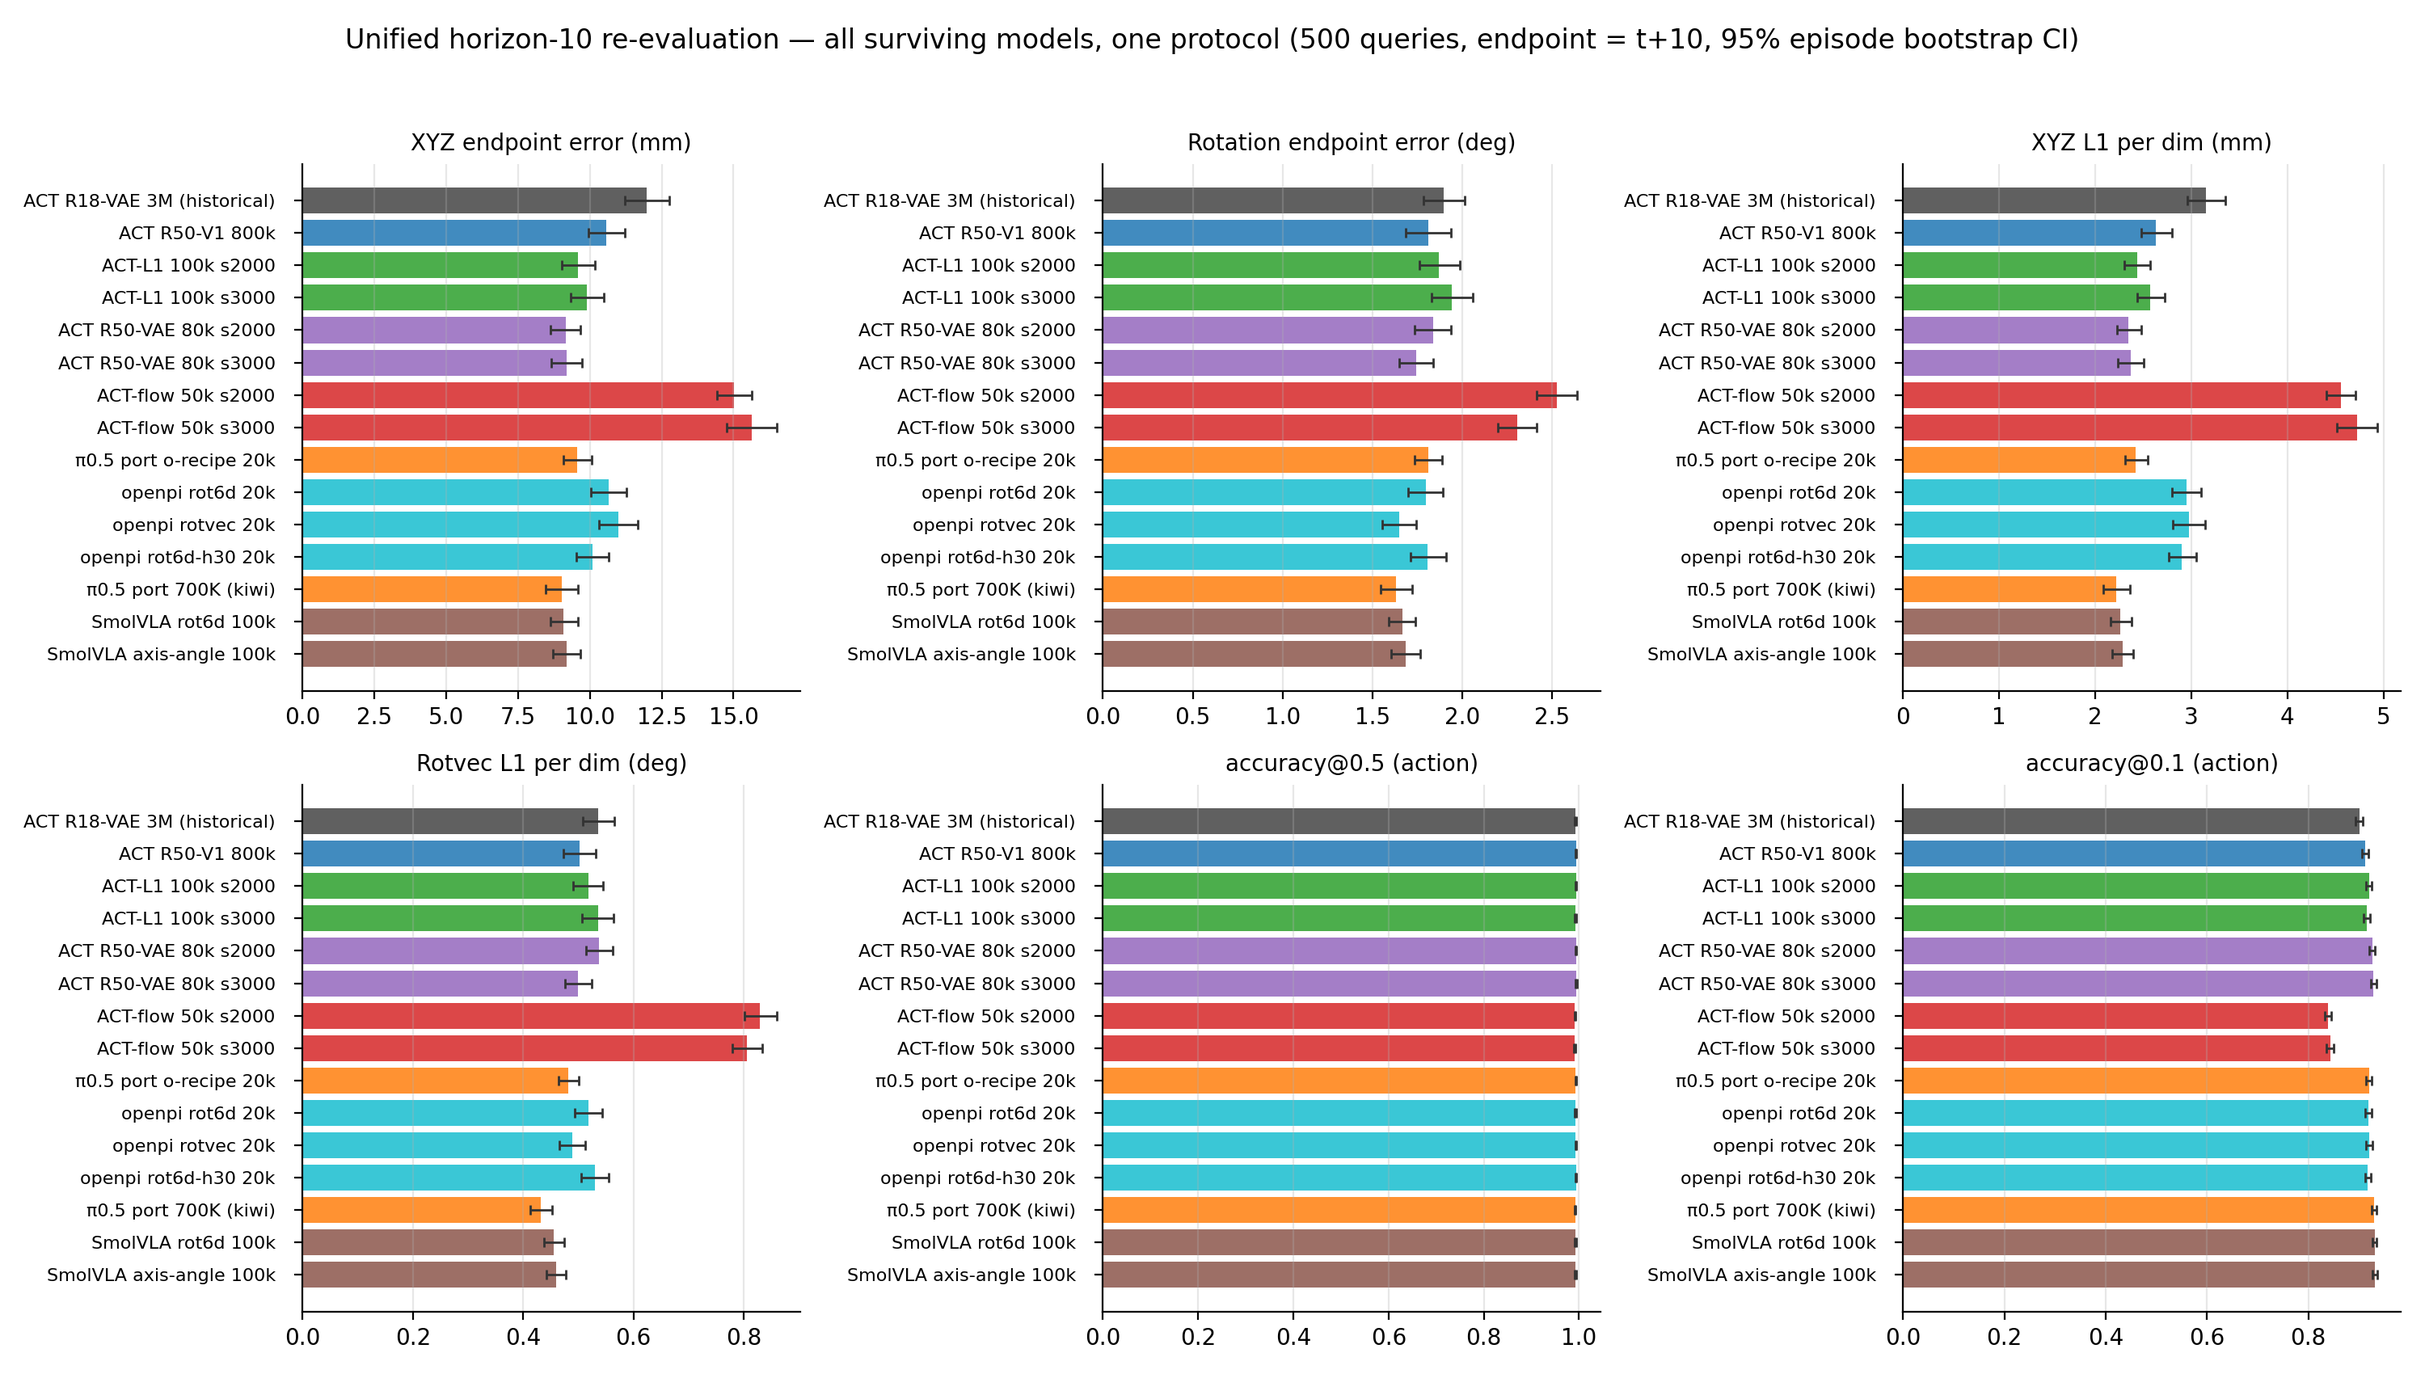
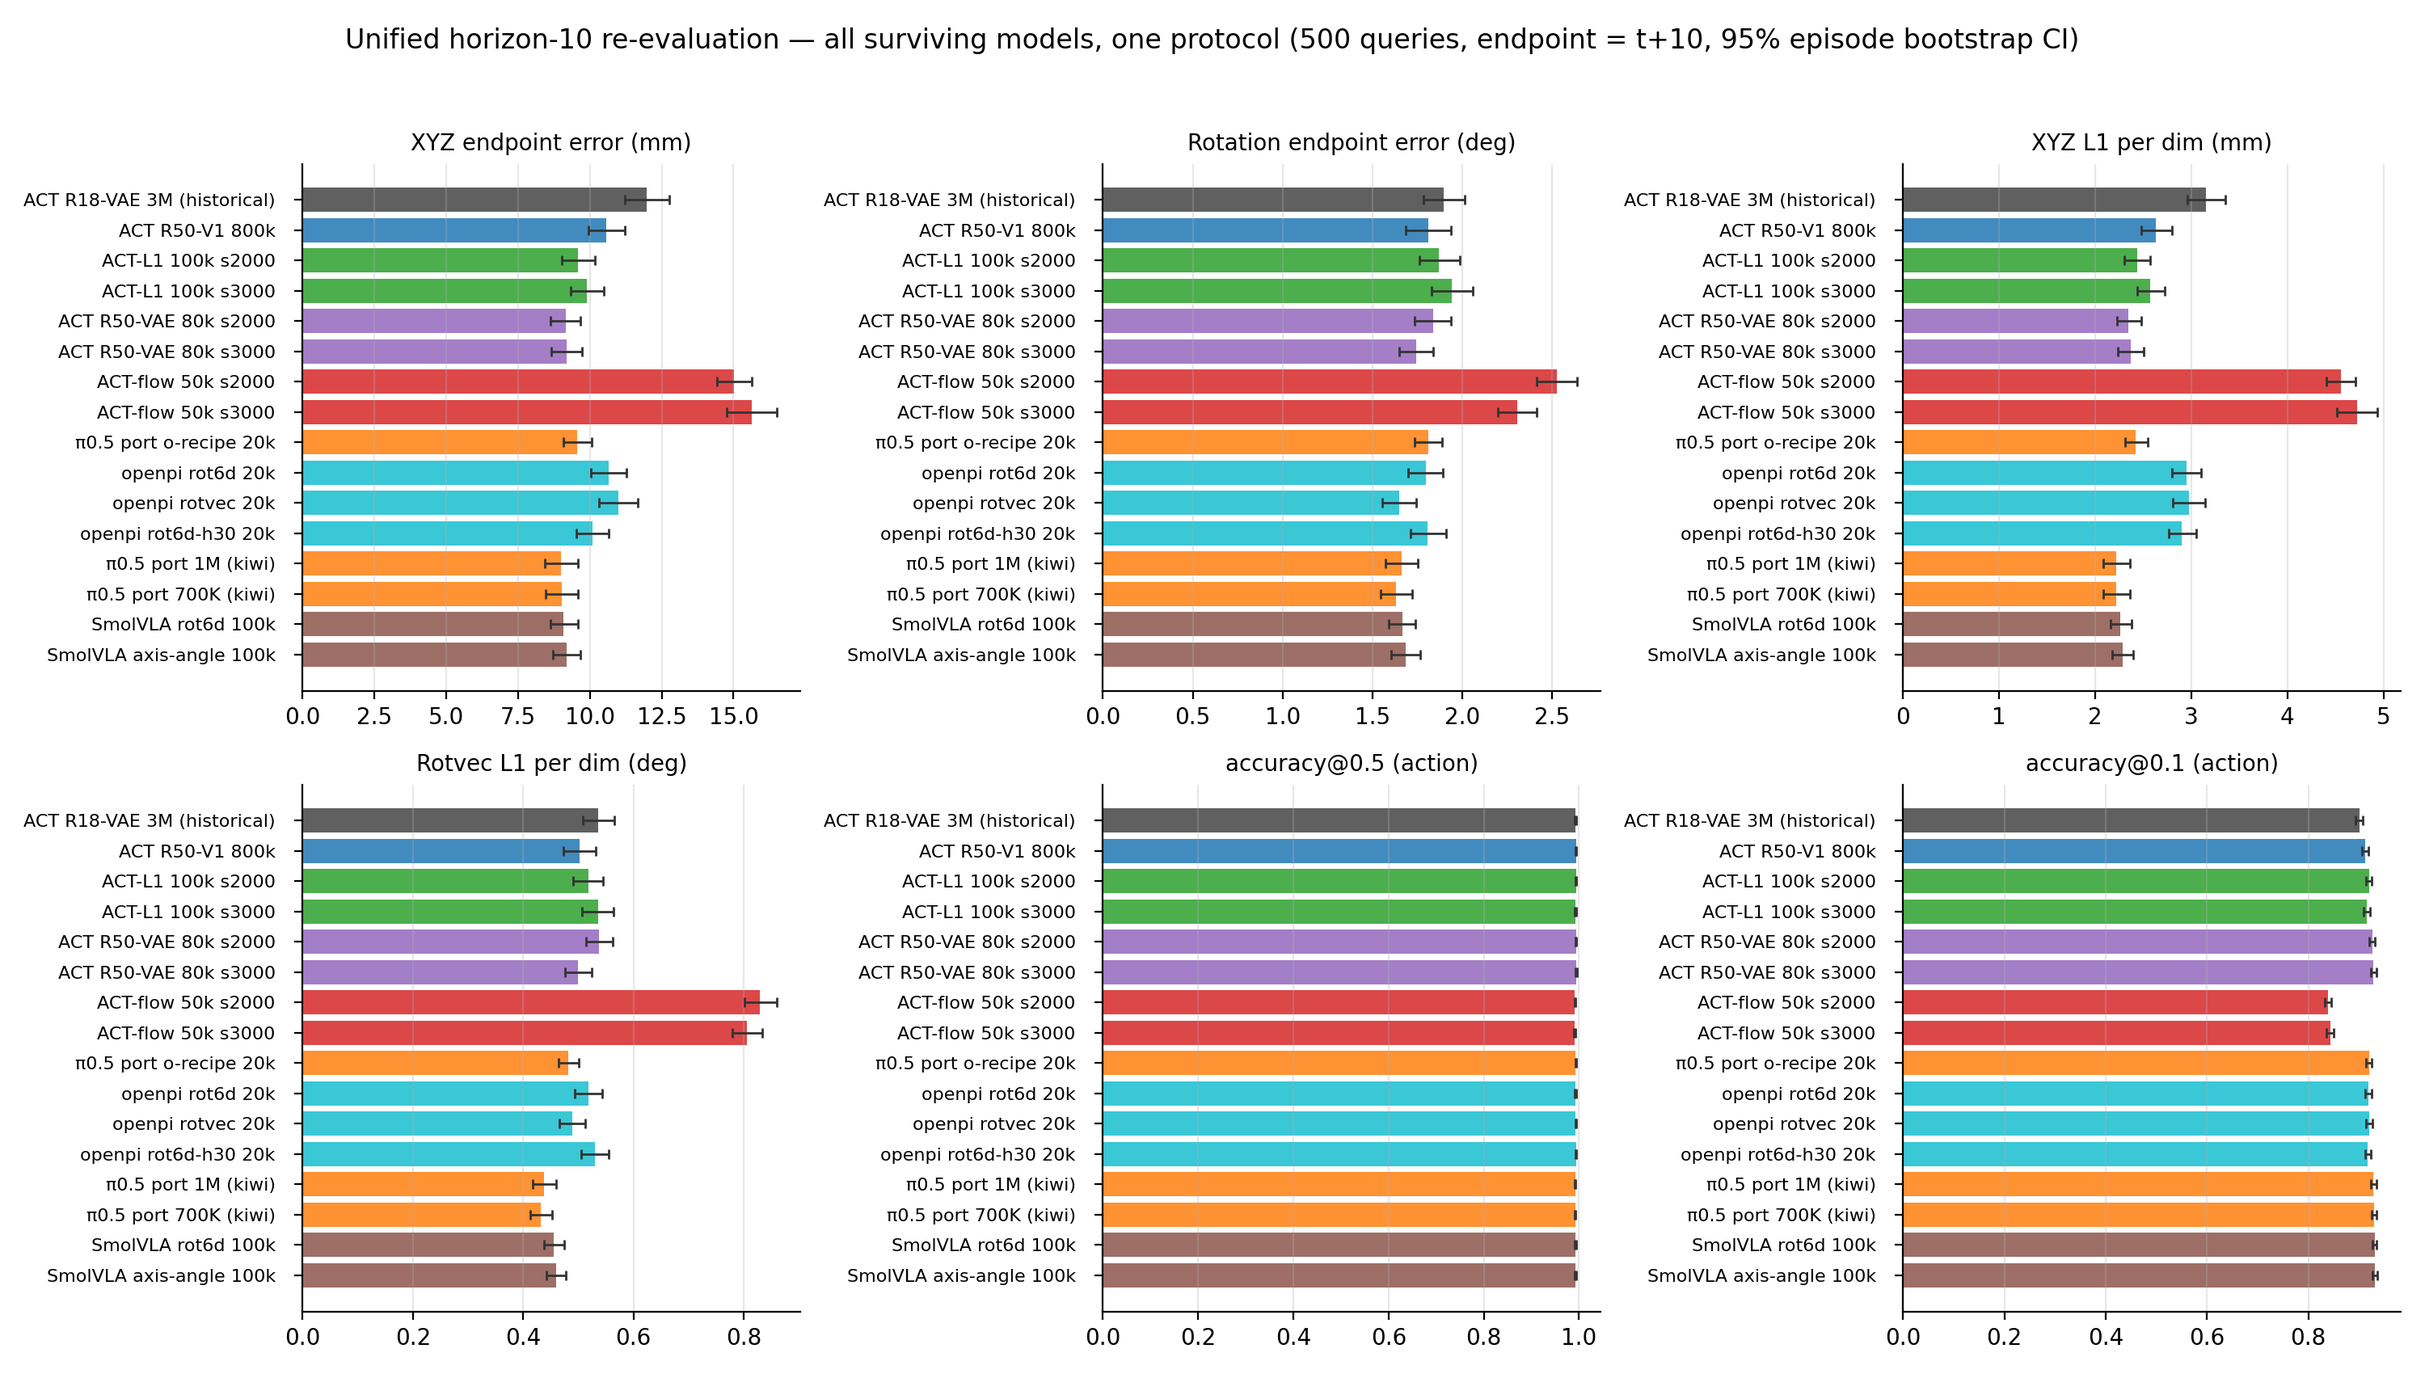
K2+K3 landed: §9.2.11 67/87, §9.2.9 complete (71/71), §9.2.2 port 1M + L1/MSE, §9.2.3 canonical confirmation
- §9.2.11: +5 h30 rows (port 650K/700K/1M flat at 21.75-21.97 mm; SmolVLA
  notation pair 27.3/27.6 mm — family worst at full chunk, tie persists);
  read-outs 5-6, figures regenerated (19-pt port curve).
- §9.2.9: fetched the missed kiwi 1M h10 row — 9.00 [8.43, 9.58] mm, flat
  vs 700K; placeholder replaced, status 71/71 complete.
- §9.2.2: 1M row + per-dim L1/MSE at 650K/700K/1M; canonical re-scores
  match legacy point-for-point.
- §9.2.3: canonical h10 + h30 notation ties confirm the legacy result.
- §11: rerun notes now gated on SmolVLA chains only.

diff --git a/examples/umi_relative_ee/act_flow_ablation/plot_unified_h10.py b/examples/umi_relative_ee/act_flow_ablation/plot_unified_h10.py
@@ -187,7 +187,7 @@ def fig_budget(rows: dict[str, dict]) -> None:
         for series, color, label, marker in (
             (hist, COLORS["hist"], "ACT R18-VAE (historical, 30 ckpts)", "o"),
             (r50, COLORS["r50v1"], "ACT R50-V1 (fresh 1M run)", "s"),
-            (port, COLORS["port"], "π0.5 port (kiwi curve, 18 ckpts)", "^"),
+            (port, COLORS["port"], "π0.5 port (curve, 19 ckpts)", "^"),
         ):
             if not series:
                 continue
@@ -330,7 +330,7 @@ def fig_jitter_budget(rows: dict[str, dict]) -> None:
         for series, color, label, marker in (
             (hist, COLORS["hist"], "ACT R18-VAE (historical, 30 ckpts)", "o"),
             (r50, COLORS["r50v1"], "ACT R50-V1 (fresh 1M run)", "s"),
-            (port, COLORS["port"], "π0.5 port (kiwi curve, 18 ckpts)", "^"),
+            (port, COLORS["port"], "π0.5 port (curve, 19 ckpts)", "^"),
         ):
             if not series:
                 continue

diff --git a/examples/umi_relative_ee/act_flow_ablation/RESEARCH_REPORT.md b/examples/umi_relative_ee/act_flow_ablation/RESEARCH_REPORT.md
@@ -1009,18 +1009,28 @@ the same 1459_occlusion train set. At the evaluated 700K point the model had see
 checkpoint to complete the full 1M schedule (300k steps at ~1.3 steps/s on the
 RTX 5080, ETA ≈ 64 h; step/optimizer/scheduler state and the same W&B run
 `ud42a4qb` restored via `resume_pi05_split_lora_kiwi_1459_1m.sh`); the 1M
-checkpoint will be evaluated under the identical protocol when it lands.
+checkpoint landed 2026-08-19 and is evaluated below (canonical re-score).
 
 | Checkpoint | XYZ end (mm) | Rot end (deg) | Rot jerk (deg) | Gripper end |
 | --- | ---: | ---: | ---: | ---: |
+| π0.5 LoRA 1M | 21.75 [20.14, 23.42] | 4.29 [3.96, 4.62] | 0.08 | — |
 | π0.5 LoRA 700K | **21.77 ± 0.17** | **4.25 ± 0.01** | **0.07** | 0.14 |
 | π0.5 LoRA 650K | 21.97 ± 0.21 | 4.32 ± 0.01 | 0.08 | 0.14 |
+
+The 1M row is the canonical full-chunk re-score (§9.2.11 protocol, 3
+inference seeds, 95% episode bootstrap); its 650K/700K siblings re-scored
+at 21.97 [20.33, 23.67] / 21.77 [20.17, 23.45] — matching the legacy ±
+rows above point-for-point, so the two protocols agree. Per-dim L1/MSE at
+the three budgets: XYZ L1 6.56/6.51/6.49 mm, XYZ MSE 119.6/117.3/116.4
+µm², rotvec L1 1.194/1.188/1.195°, rotvec MSE 3.52/3.44/3.50 deg²
+(650K/700K/1M).
 
 Both π0.5 checkpoints beat every ACT and diffusion-policy variant in the matrix
 on endpoint pose accuracy (next best: ACT R50-V1 100k at 22.33 mm / 4.58°), and
 both are smoother than the ground-truth trajectory (rotational jerk 0.07–0.08°
-versus GT 0.158°). The 650K→700K gain is small (0.2 mm, 0.07°), indicating the
-flow-VLM has largely plateaued by 650K. This sharpens the Q2 conclusion: flow
+versus GT 0.158°). The 650K→700K gain is small (0.2 mm, 0.07°) and 700K→1M adds
+nothing (21.77 → 21.75 mm), indicating the flow-VLM has largely plateaued
+by 650K. This sharpens the Q2 conclusion: flow
 matching is emphatically not the bottleneck — a well-trained flow-VLM is the
 strongest and smoothest controller here, so the deficit of the matched ACT-flow
 run (Section 9.2, ~26 mm) is attributable to the ACT-transformer
@@ -1066,7 +1076,13 @@ near-identity (small rotations), where axis-angle's singularity at 180° never
 manifests and the extra rot6d→rotvec decode step injects a small amount of noise.
 Practical takeaway: **rotation parameterization is not a meaningful accuracy or
 deployment lever for this task**; axis-angle is preferred for its smaller action
-dimension and marginally smoother output. (An independent replication on the
+dimension and marginally smoother output. The canonical re-evaluations confirm
+this at both horizons: under the unified protocol (§9.2.9) the pair ties at
+t+10 (9.08 [8.62, 9.57] vs 9.18 [8.71, 9.66] mm), and the full-chunk
+re-scores (§9.2.11, 3 inference seeds) land at 27.29 [25.72, 28.87] vs
+27.57 [26.10, 29.04] mm — within the legacy intervals above (the ~0.4 mm
+shift is re-eval noise at overlapping CI coverage) — with the same
+axis-angle smoothness edge (0.85° vs 0.92° rot-jerk). (An independent replication on the
 official openpi π0.5 LoRA path — rot6d vs rotvec, JAX — is in progress to test
 whether the conclusion transfers to a flow-VLM; see §9.2.4. Raw
 SmolVLA metrics under
@@ -1671,8 +1687,9 @@ families — superseded by their 100k+ checkpoints. Outputs live under
 plus a cross-schema compiler; drivers: `eval_unified_h10_sweep.sh` (host),
 `kiwi_eval_unified_h10.sh` (kiwi, K-phase).
 
-**Status: 70 of 71 rows complete (2026-08-19); only the π0.5-port 1M final
-remains pending** (kiwi trainer ETA ≈ 2026-08-19 08:50; lands with K1). The SmolVLA rows were front-run on
+**Status: all 71 rows complete (2026-08-19) — the π0.5-port 1M final landed
+with K1** (9.00 [8.43, 9.58] mm, flat vs 700K — no overfitting through the
+full schedule). The SmolVLA rows were front-run on
 2026-08-18: the two kiwi-trained checkpoints were copied (weights only) to
 the host artifact tree and evaluated on the then-idle host GPU with
 identical flags (`eval_smolvla_unified_h10_host.sh`) rather than waiting
@@ -1774,9 +1791,9 @@ per-dimension (µm² / deg²):
 | pi05_port_seed1000_0800000steps | 800000 | 9.00 [8.42, 9.59] | 1.64 [1.55, 1.73] | 2.22 | 14.1 | 0.433 | 0.46 | 0.992 | 0.930 [0.924, 0.935] | 0.078 |
 | pi05_port_seed1000_0850000steps | 850000 | 8.89 [8.31, 9.48] | 1.65 [1.56, 1.74] | 2.20 | 13.8 | 0.434 | 0.47 | 0.992 | 0.929 [0.924, 0.935] | 0.073 |
 | pi05_port_seed1000_0900000steps | 900000 | 9.00 [8.43, 9.57] | 1.65 [1.56, 1.75] | 2.22 | 14.0 | 0.437 | 0.47 | 0.991 | 0.930 [0.924, 0.935] | 0.085 |
-| π0.5 port 1M (kiwi) | — | *pending K4* | | | | | | | | | |
-| smolvla_rot6d_seed1000_100000steps | 100000 | 9.08 [8.62, 9.57] | 1.66 [1.59, 1.74] | 2.26 | 12.9 | 0.455 | 0.45 | 0.993 | 0.931 [0.927, 0.935] | 0.552 |
+| pi05_port_seed1000_1000000steps | 1000000 | 9.00 [8.43, 9.58] | 1.66 [1.57, 1.75] | 2.22 | 13.9 | 0.438 | 0.47 | 0.992 | 0.929 [0.923, 0.935] | 0.074 |
 | smolvla_axis_angle_seed1000_100000steps | 100000 | 9.18 [8.71, 9.66] | 1.68 [1.61, 1.76] | 2.28 | 13.1 | 0.459 | 0.45 | 0.993 | 0.931 [0.927, 0.936] | 0.492 |
+| smolvla_rot6d_seed1000_100000steps | 100000 | 9.08 [8.62, 9.57] | 1.66 [1.59, 1.74] | 2.26 | 12.9 | 0.455 | 0.45 | 0.993 | 0.931 [0.927, 0.935] | 0.552 |
 
 ![Unified horizon-10 metrics across all surviving models](figures/unified_h10_metrics.png)
 
@@ -1872,11 +1889,10 @@ companions, and — new — the π0.5-port h30 curve (`pi05_port_<STEP>_h30_v2`
 runs; host front-run 50k–900k minus 650k/700k via
 `eval_pi05_curve_h30_host.sh`, kiwi K2 owns 650K/700K/1M).
 
-**Status: 62 of 87 rows complete (2026-08-19); the π0.5-port h30 curve
-(16 host-front-run points, 50k–900k minus 650k/700k) is in.** Pending: the
-port 650K/700K/1M h30 rows (kiwi K2, in flight), the SmolVLA notation ×3
-seeds (K3, in flight), the SmolVLA 1M full-width h30 curve (chained after
-tonight's training exit), and the kiwi masked-subspace 1M h30 curve. Every
+**Status: 67 of 87 rows complete (2026-08-19); the full π0.5-port h30
+curve (19 points, 50k–1M) and the SmolVLA notation h30 pair are in.**
+Pending: the SmolVLA 1M full-width h30 curve (chained after tonight's
+training exit) and the kiwi masked-subspace 1M h30 curve. Every
 admitted row passed the compiler's assertions — canonical bounds,
 full-chunk scoring, 500 queries/100 episodes, identical acc@τ scales
 (within-tree), and identical GT jerk (0.158° / 0.67 mm — the full-chunk
@@ -1942,17 +1958,22 @@ GT invariants, slightly different from the t+10 values as expected).
 | pi05_port_0500000_h30_v2 | 500000 | 21.84 [20.31, 23.41] | 4.33 [4.00, 4.66] | 6.49 | 116.2 | 1.206 | 3.56 | 0.975 | 0.743 [0.731, 0.755] | 0.089 |
 | pi05_port_0550000_h30_v2 | 550000 | 21.75 [20.18, 23.36] | 4.27 [3.95, 4.59] | 6.44 | 115.1 | 1.179 | 3.39 | 0.976 | 0.744 [0.732, 0.757] | 0.079 |
 | pi05_port_0600000_h30_v2 | 600000 | 21.83 [20.26, 23.46] | 4.30 [3.97, 4.63] | 6.49 | 116.5 | 1.195 | 3.49 | 0.975 | 0.743 [0.730, 0.755] | 0.087 |
+| pi05_port_0650000_h30_v2 | 650000 | 21.97 [20.33, 23.67] | 4.32 [3.99, 4.66] | 6.56 | 119.6 | 1.194 | 3.52 | 0.975 | 0.743 [0.730, 0.755] | 0.078 |
+| pi05_port_0700000_h30_v2 | 700000 | 21.77 [20.17, 23.45] | 4.25 [3.92, 4.58] | 6.51 | 117.3 | 1.188 | 3.44 | 0.977 | 0.743 [0.730, 0.755] | 0.072 |
 | pi05_port_0750000_h30_v2 | 750000 | 21.76 [20.12, 23.44] | 4.24 [3.92, 4.57] | 6.52 | 118.3 | 1.186 | 3.43 | 0.976 | 0.744 [0.731, 0.757] | 0.077 |
 | pi05_port_0800000_h30_v2 | 800000 | 21.78 [20.17, 23.44] | 4.27 [3.95, 4.60] | 6.50 | 117.0 | 1.187 | 3.44 | 0.976 | 0.743 [0.730, 0.756] | 0.081 |
 | pi05_port_0850000_h30_v2 | 850000 | 21.70 [20.06, 23.41] | 4.26 [3.93, 4.59] | 6.46 | 116.5 | 1.189 | 3.47 | 0.976 | 0.744 [0.731, 0.757] | 0.073 |
 | pi05_port_0900000_h30_v2 | 900000 | 21.76 [20.16, 23.41] | 4.28 [3.95, 4.61] | 6.50 | 116.8 | 1.193 | 3.48 | 0.976 | 0.743 [0.730, 0.756] | 0.091 |
+| pi05_port_1000000_h30_v2 | 1000000 | 21.75 [20.14, 23.42] | 4.29 [3.96, 4.62] | 6.49 | 116.4 | 1.195 | 3.50 | 0.976 | 0.743 [0.730, 0.756] | 0.077 |
+| smolvla_axis_angle_seed1000_100000steps | 100000 | 27.57 [26.10, 29.04] | 4.86 [4.60, 5.13] | 7.45 | 153.9 | 1.324 | 4.15 | 0.974 | 0.715 [0.706, 0.723] | 0.847 |
+| smolvla_rot6d_seed1000_100000steps | 100000 | 27.29 [25.72, 28.87] | 4.68 [4.45, 4.92] | 7.35 | 150.6 | 1.296 | 3.95 | 0.974 | 0.714 [0.705, 0.723] | 0.924 |
 
 ![Unified native-h30 metrics across chunk-30 models](figures/unified_h30_metrics.png)
 
 ![Unified native-h30 budget curves — historical R18-VAE (30 ckpts),
-fresh R50-V1 (10 ckpts), and the π0.5-port h30 curve (16 points, plateau
-≈21.7–21.9 mm from 350k); SmolVLA 1M curves land as their chains
-finish](figures/unified_h30_budget.png)
+fresh R50-V1 (10 ckpts), and the π0.5-port h30 curve (19 points, plateau
+≈21.7–21.9 mm from 350k through 1M); SmolVLA 1M curves land as their
+chains finish](figures/unified_h30_budget.png)
 
 ![Unified native-h30 jitter — every run of the sweep, log scale, dashed =
 ground truth (0.158° / 0.67 mm)](figures/unified_h30_jitter.png)
@@ -1988,9 +2009,9 @@ Read-outs (extended as the pending rows land):
    heavy-tail penalty of the unweighted flow objective grows with horizon,
    matching the §9.2.6 diagnosis.
 5. **The π0.5-port full-chunk curve ties R50-V1 at every mature budget**
-   (16 host points, 50k–900k minus 650k/700k which kiwi owns). The port
-   reaches its 21.7–21.9 mm / acc@0.1 0.741–0.744 plateau by ~350k and
-   stays flat through 900k — no overfitting, mirroring its h10 curve
+   (19 points, 50k–1M; kiwi owns 650k/700k/1M). The port reaches its
+   21.7–21.9 mm / acc@0.1 0.741–0.744 plateau by ~350k and stays flat
+   through 1M (21.75 mm) — no overfitting, mirroring its h10 curve
    (§9.2.9). Against R50-V1 over the same budgets the endpoint CIs overlap
    everywhere (port 21.70–21.84 vs R50-V1 21.22–21.74 mm at ≥600k; acc@0.1
    0.743 vs 0.742–0.743), so the h10 ACT-vs-port tie carries to t+30.
@@ -2000,6 +2021,15 @@ Read-outs (extended as the pending rows land):
    advantage is a near-horizon artifact; at full chunk the two families
    learn at nearly the same rate. The port remains mid-pack on smoothness
    (0.073–0.091° rot-jerk vs ACT's 0.03–0.05°).
+6. **The SmolVLA rotation-notation tie persists at full chunk — but the
+   family drops to last place on endpoint error.** rot6d 27.29
+   [25.72, 28.87] vs axis_angle 27.57 [26.10, 29.04] mm at 100k: CIs
+   overlap, exactly the §9.2.3 h10 result (9.08 vs 9.17 mm). What changes
+   with horizon is the family's position: SmolVLA is the WORST chunk-30
+   endpoint family (~27.4 mm vs ACT-L1 23.7, R50-V1 23.2, port 23.05 at
+   the same 100k budget) and by far the least smooth at t+30 (rot-jerk
+   0.85–0.92° vs GT 0.158°) — its §9.2.9 h10 "ties everything" profile is
+   a near-horizon artifact of the same kind as the port's early edge.
 
 ### 9.3 Answers and promotion decision after stage one
 
@@ -2831,8 +2861,9 @@ MPLCONFIGDIR=/tmp/lerobot-matplotlib uv run --with matplotlib python \
 ```
 
 outputs `results/unified_h10_run_summary.csv` (per-run means + 95% CIs, all
-co-primary metrics) and `figures/unified_h10_{metrics,budget,jitter,jitter_budget}.png`; rerun both
-after the SmolVLA 1M eval chain (§9.2.10) and after K4 (kiwi π0.5-port 1M row).
+co-primary metrics) and `figures/unified_h10_{metrics,budget,jitter,jitter_budget}.png`; the K-phase
+(kiwi π0.5-port rows incl. the 1M final) landed 2026-08-19 — rerun both only
+after the SmolVLA 1M eval chains (§9.2.10).
 
 The native-h30 full-chunk evaluation (§9.2.11) shares the mechanics with the
 horizon inverted (no `--eval_horizon` → full 30-step scoring over the same
@@ -2852,8 +2883,9 @@ MPLCONFIGDIR=/tmp/lerobot-matplotlib uv run --with matplotlib python \
 ```
 
 outputs `results/unified_h30_run_summary.csv` and
-`figures/unified_h30_{metrics,budget,jitter,jitter_budget}.png`; rerun both
-as each pending batch lands (port curve, SmolVLA 1M curves, K2/K3 rows).
+`figures/unified_h30_{metrics,budget,jitter,jitter_budget}.png`; the port
+curve and K2/K3 rows landed 2026-08-19 — rerun both only as the SmolVLA 1M
+curves (full-width + masked) land.
 
 The v2 pass records the authoritative evaluated checkpoint step from each
 report filename (early-stopped companions sit in `100000steps` directories
